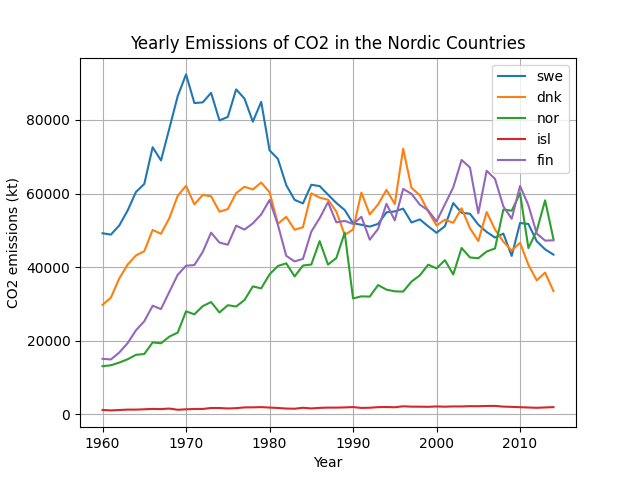
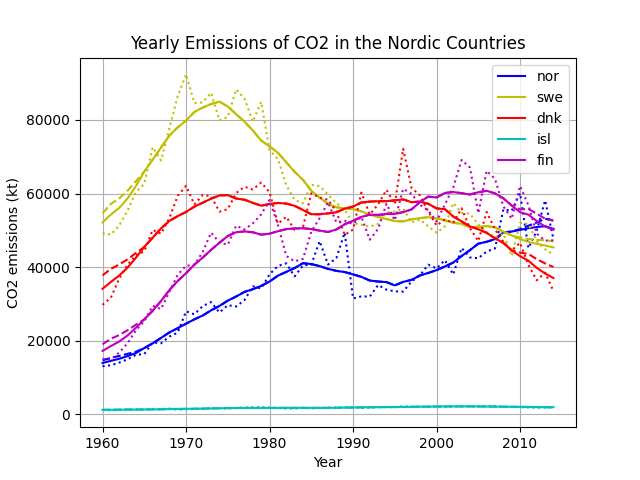
works

diff --git a/lektion_9/uppg.py b/lektion_9/uppg.py
@@ -1,5 +1,6 @@
 import csv
 import matplotlib.pyplot as plt
+from uppg_1 import smooth_a, smooth_b
 
 
 def load_csv(filename):
@@ -10,18 +11,31 @@ def load_csv(filename):
     return dict
 
 
-# print(load_csv('CO2Emissions_filtered.csv'))
 data = load_csv('CO2Emissions_filtered.csv')
 landkod = ['dnk', 'fin', 'isl', 'nor', 'swe']
+colours = ['b', 'y', 'r', 'c', 'm']
 time = list(range(1960, 2015))
 data_landkod = {key: data[key] for key in data.keys() & landkod}
 
 fig, ax = plt.subplots()
 ax.set(
-    xlabel='Year', ylabel='CO2 emissions (kt)', title='Yearly Emissions of CO2 in the Nordic Countries'
+    xlabel='Year', ylabel='CO2 emissions (kt)',
+    title='Yearly Emissions of CO2 in the Nordic Countries'
     )
-for country in data_landkod.keys():
-    ax.plot(time, data_landkod[country], label=str(country))
+for country, c in zip(data_landkod.keys(), colours):
+    ax.plot(
+        time, data_landkod[country],
+        color=str(c), linestyle='dotted'
+        )
+    ax.plot(
+        time, smooth_a(data_landkod[country], 5),
+        label=str(country), color=str(c), linestyle='solid'
+        )
+    ax.plot(
+        time, smooth_b(data_landkod[country], 5),
+        color=str(c), linestyle='dashed'
+        )
+
 
 ax.legend()
 ax.grid()

diff --git a/lektion_9/uppg_1.py b/lektion_9/uppg_1.py
@@ -1,0 +1,26 @@
+def smooth_a(a, n):
+    r = []
+    for i in range(len(a)):
+        tot = 0
+        tot += min(0, i - n)*a[0]*(-1)  # mult index 0 i - n ant ggr om < 0
+        tot += max(0, i + n - (len(a)-1))*a[len(a)-1]   # -"- för över maxindex
+        tot += sum(a[max(0, i-n):min(len(a), i+n+1)])
+        r.append(tot)
+    return [r_i/(2*n+1) for r_i in r]
+
+
+def smooth_b(a, n):
+    r = []
+    for i in range(len(a)):
+        tot = 0
+        tot += sum(a[max(0, i-n):min(len(a), i+n+1)])
+        r.append(tot/len(a[max(0, i-n):min(len(a), i+n+1)]))
+    return r
+
+
+if __name__ == "__main__":
+    x = [1, 2, 6, 4, 5, 0, 1, 2]
+    print('smooth_a(x, 1): ', smooth_a(x, 1))
+    print('smooth_a(x, 2): ', smooth_a(x, 2))
+    print('smooth_b(x, 1): ', smooth_b(x, 1))
+    print('smooth_b(x, 2): ', smooth_b(x, 2))
